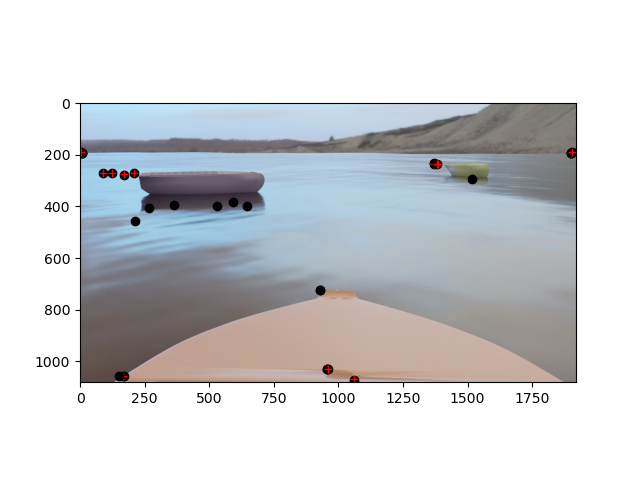
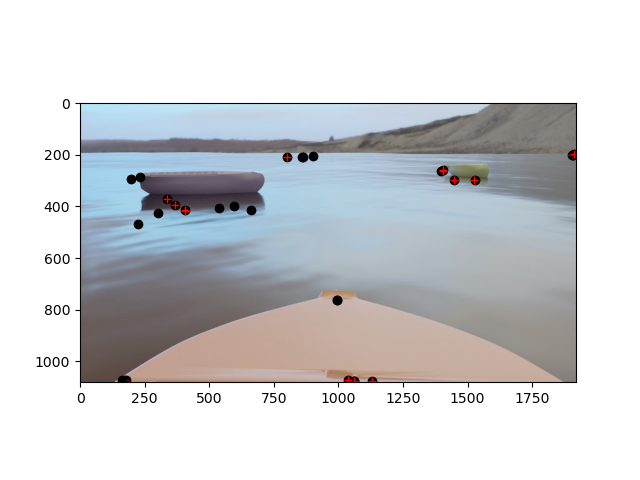
Horizont modell framework

diff --git a/TestFile/Projekt/horizont_modell.py b/TestFile/Projekt/horizont_modell.py
@@ -1,0 +1,126 @@
+from ObjectHandler import *
+import numpy as np 
+from numpy.linalg import multi_dot
+from ObjectHandler import *
+import random 
+
+#Externe Variablen
+ObjectHandler = ObjectHandler()
+N = 5
+Q_horizon = [[0.1,0],
+            [0,0.1]] ##Varianz des Modellrauschens Horizont
+R_horizont = 1 
+P_horizon = [[1,0],
+            [0,1]]
+
+H_horizon = [[1,0],
+            [0,1]]#Ausgangsmatrix Horizont
+F_horizon = [[1,0],
+            [0,1]] #Systemmatrix Horizont
+
+
+
+#k-schleife
+def horizonState_gnn (ObjectHandler,N,R_horizon,P_horizon,H_horizon,F_horizon):
+    pictures_availiable = True
+    k = 0
+    horizon_list = []
+    while pictures_available == True:
+        try:
+             ObjectHandler.updateObjectStates()
+             horizon_lines_k = ObjectHandler.getHorizon(k) #3 Horizont Kandidaten
+        except InvalidTimeStepError as e:
+               print(e.args[0])
+               k = 0 
+               pictures_availiable = False
+               break
+        if k<N:
+            horizon_list.append(horizon_lines_k)
+            #Datensatzladen
+        if k==N:
+            #MN Horizont aufrufen, um nur eine Linie von drei zu erhalten als Horizont-Kandidat
+            est_hor_k = mn_horizon(horizon_list) #Estimate horizon am Zeitschritt k
+        
+        if k>=N:
+            est_hor_k,P_horizon = kalman_filter_prediction(est_hor_k, P_horizon,F_horizon,Q_horizon) # Kalman Prädiktion
+            H_heigth = [[1,0],
+                        [0,0]] #Matrix extraiert nur die Höhe des Horizonts
+            height_horizon = getHeight(horizon_lines_k)#Liste von Höhen aus Liste von Horizonten
+            horizon_opt = min(abs(height_horizon-multi_dot([H_height,est_hor_k]))) #Horizon mit dem kleinsten Höheunterschied als optimal wählen
+            if len(horizon_lines_k) == 0:# Analysieren ob Horizon detektiert wurde
+                theta_k = 0
+            else:
+                theta_k =1
+            est_hor_k,P_horizon = kalman_filter_update(est_hor_k,P_horizon,H_horizon,horizon_opt,theta_k,R_horizon,2)#Kalmann Update
+
+            #Zustände auf gesamten Zustand zusammenführen
+        k = k+1
+
+
+def horizonState_phd (ObjectHandler,R_horizon,P_horizon,H_horizon,F_horizon):
+    pictures_availiable = True
+    k = 0
+    horizon_list = []
+    while pictures_availabel == True:
+        try:
+             ObjectHandler.updateObjectStates()
+             horizon_lines_k = ObjectHandler.getHorizon(k) #3 Horizont Kandidaten
+        except InvalidTimeStepError as e:
+               print(e.args[0])
+               k = 0 
+               pictures_availiable = False
+               break
+        if k==0:
+            random_index=random.randint(0, len(horizon_lines_k))
+            est_hor_k = horizont_lines_k[random_index] #Bei der Initialisierung, einen zufälligen Horizontkandidaten von drei auswählen
+        est_hor_k,P_horizon = kalman_filter_prediction(est_hor_k, P_horizon,F_horizon,Q_horizon) # Kalman Prädiktion
+        H_heigth = [[1,0],
+                    [0,0]] #Matrix extraiert nur die Höhe des Horizonts
+        height_horizon = getHeight(horizon_lines_k)#Liste von Höhen aus Liste von Horizonten
+        horizon_opt = min(abs(height_horizon-multi_dot([H_height,est_hor_k]))) #Horizon mit dem kleinsten Höheunterschied als optimal wählen
+        if len(horizon_lines_k) == 0:# Analysieren ob Horizon detektiert wurde
+           theta_k = 0
+        else:
+           theta_k =1
+        est_hor_k,P_horizon = kalman_filter_update(est_hor_k,P_horizon,H_horizon,horizon_opt,theta_k,R_horizon,2)#Kalmann Update
+        #Zustände auf gesamten Zustand zusammenführen
+
+        k = k+1
+ 
+
+
+
+
+  
+
+
+def kalman_filter_prediction(estimates_i, P_i,F,Q):
+   #Theorie Kalman Filter bei GNN: https://www.youtube.com/watch?v=MDMNsQJl6-Q&list=PLadnyz93xCLiCBQq1105j5Jeqi1Q6wjoJ&index=20 
+    estimates_i = np.matmul(F,estimates_i) #Kalman Prädiktion estimates
+    P_i =  multi_dot([F,P_i,np.transpose(F)]) +Q #Kalman Prädiktion 
+    return estimates_i, P_i
+
+def kalman_filter_update(estimate_i,P_i,H,z_opt_assossiation,theta_i,R,dimensions):
+     help_K_1 =np.matmul(P_i,np.transpose(H)) #Hilfsvariable für die Berechnung von K. Muss Transponiert werden, da Python mit stehenden Vektoren nicht umgehen kann
+     help_K_2 = lin.inv(np.matmul(H,help_K_1)+R) #Hilfsvariable für die Berechnung von K
+     if theta_i != 0: #Wenn Objekt detektiert wurde => Kalmanprediktion durchführen
+         
+         help_estimate = z_opt_assossiation - np.matmul(H,estimate_i)
+
+
+         if dimensions==1:
+            K = help_K_1*help_K_2
+            estimate_i = estimate_i +K*help_estimate #K Transponieren aufgrung Python und nicht der Theorie
+            help_P_1 =K*np.matmul(H,P_i)
+         else:
+             K = np.matmul(help_K_1,help_K_2)
+             estimate_i = estimate_i +np.matmul(K,help_estimate) #K Transponieren aufgrung Python und nicht der Theorie
+             help_P_1 = multi_dot([K,H,P_i])
+         P_i = P_i - help_P_1
+         
+     else:
+
+         P_i = P_i
+         estimate_i = estimate_i
+     
+     return estimate_i,P_i

diff --git a/TestFile/Projekt/ObjectHandler.py b/TestFile/Projekt/ObjectHandler.py
@@ -26,6 +26,8 @@ class ObjectHandler:
         self.Img: ndarray 
         self.image_height: int
         self.image_width: int
+        self.HorizonData: List = []
+        self.PlotOnUpdate: bool = False
 
     def setDebugLevel(self, debugLevel: int = 0) -> None:
         self.DebugLevel = debugLevel
@@ -36,6 +38,9 @@ class ObjectHandler:
             return True
         else:
             return False
+
+    def setPlotOnUpdate(self, plot: bool) -> None:
+        self.PlotOnUpdate = plot
 
     def setImageFolder(self, folder: str) -> bool:
         self.ImageFolder = folder
@@ -60,6 +65,14 @@ class ObjectHandler:
 
     def getImgWidth(self) -> int:
         return self.image_width
+
+    def getHorizonData(self, t: int) -> Tuple:
+        
+        try:
+            return self.HorizonData[t-1]
+        except IndexError:
+            raise InvalidTimeStepError('time step is out of bound!')
+
 
     # return list with object states for all time stemps
     def getObjectStatesList(self) -> List:
@@ -87,7 +100,7 @@ class ObjectHandler:
         return self.ObjectStates[-1]
 
     # update the object states for the next time step
-    def updateObjectStates(self, plot: bool = True) -> bool:
+    def updateObjectStates(self) -> bool:
 
         detector = ObstacleDetector()
         img, folder = None, '.'
@@ -118,9 +131,11 @@ class ObjectHandler:
             # check if image is valid
             assert img is not None, 'file ' + filepath + ' could not be read'
             # plot if plot setting is true
-            if plot == True: cv2.imshow('orig', img)
+            # if self.PlotOnUpdate == True: cv2.imshow('orig', img)
             # detect horizon
             horizon_lines, votes, seps = detector.detect_horizon(img)
+            # set horizon data
+            self.HorizonData.append( (horizon_lines, votes,seps) )
             # if horizon lines found
             if horizon_lines:
                 # find obstacles
@@ -128,13 +143,16 @@ class ObjectHandler:
                 # write found obstacles in list
                 ObstacleStates = []
                 for obs in obstacles:
-                    ObstacleStates .append([obs.x, obs.y])
+                    ObstacleStates .append([obs.x + obs.width // 2, obs.y + obs.height])
                 # add list to list with obstacles over all time steps
                 self.ObjectStates.append(ObstacleStates)
             else:
                 obstacles = None
             # plot image with found obstacles
-            if plot == True: detector.plot_img(img, obstacles=obstacles,horizon_lines=horizon_lines,plot_method='cv', wait_time=1)
+            #print('obstacles:')
+            #for obs in obstacles:
+            #    print('[' + str(obs.x) + ', ' + str(obs.y) + ']')
+            if self.PlotOnUpdate == True: detector.plot_img(img, obstacles=obstacles,horizon_lines=horizon_lines,plot_method='cv', wait_time=1)
 
             return True
 

diff --git a/TestFile/Projekt/gnn_algorithmus.py b/TestFile/Projekt/gnn_algorithmus.py
@@ -143,9 +143,6 @@ def gnn(p_d,M,N,dimensions,T,ObjectHandler,Q,R,P_i_init,treshhold):
                 estimate_all.append(estimate.tolist())
                 velocity_k = np.transpose(multi_dot([H_velocity,estimate])).tolist()
                 velocity_all.append(velocity_k)
-                print('.....')
-                print(velocity_k)
-                print('.....')
                 n, estimate = initMnLogic(M,N,mn_data,velocity_all,T, estimate,treshhold,n) #Anzahl Objekte
                 
                 
@@ -189,6 +186,18 @@ def kalman_filter_update(estimate_i,P_i,H,z_opt_assossiation,theta_i,R,dimension
          estimate_i = estimate_i
      
      return estimate_i,P_i
+
+def kalmann_filter_horizon(estimate_horizon_k,P_horizon_k,Q_horizon,R_horizon,horizon_k):
+     #Kalmannfilter für die Filterung des Horizonts. Basiert auf ein Constant-Position Model (F_horizon =1,H_horinzon = 1)
+     #Prädiktion
+     estimate_horizon_k = estimate_horizon_k
+     P_horizon_k = P_horizon_k + Q_horizon
+     #Update
+     K = P_horizon_k/(P_horizon_k+R_horizon)
+     estimate_horizon_k = estimate_horizon_k +K*(horizon_k-estimate_horizon_k)
+     P_horizon_k = P_horizon_k*(1-K)
+     return estimate_horizon_k, P_horizon_k
+
 
 
 

diff --git a/TestFile/Projekt/test_1.py b/TestFile/Projekt/test_1.py
@@ -1,6 +1,7 @@
 from ObjectHandler import *
 
 ObjectHandler = ObjectHandler()
+#Ordner evtl. anpassen!
 ObjectHandler.setImageFolder('Bilder/list1')
 ObjectHandler.setImageBaseName('')
 ObjectHandler.setImageFileType('.jpg')
@@ -11,13 +12,12 @@ for i in range(1,20):
     success = ObjectHandler.updateObjectStates()
     if success == True:
         print('updated states for time step ' + str(i))
+        print('___')
+        print('horizon data:')
+        print(ObjectHandler.getHorizonData(i))
+        print('___')
     else:
         print('could not update states for time step ' + str(i))
-    #img = ObjectHandler.getImg()
-    #plt.imshow(img)
-    #plt.plot(400,400,'r+')
-    #plt.show()
-    #a=1
     #print('last object states:')
     #print(ObjectHandler.getLastObjectStates())
     #cv2.waitKey(1000)
@@ -27,7 +27,7 @@ print('---------------------------------------')
 #print(ObjectHandler.getLastObjectStates())
 #print('---------------------------------------')
 
-i = 1
+
 try:
     print('get data for timestep ' + str(i) + ':')
     
@@ -35,5 +35,3 @@ try:
 except InvalidTimeStepError as e:
     print(e.args[0])
 print('---------------------------------------')
-
-

diff --git a/TestFile/Projekt/obstacle_detect.py b/TestFile/Projekt/obstacle_detect.py
@@ -187,6 +187,7 @@ class ObstacleDetector(object):
             List[float]: separation factor of lines
         """
         img = self._preprocess(img)
+        
         return self._detect_lines(img, min_visibility, N_max, canny_threshold)
 
     def _detect_lines(self, img: np.ndarray, 
@@ -206,6 +207,7 @@ class ObstacleDetector(object):
             return [], [], []
         lines = [ImageLine(self._shape, polar=l[0]) for l in lines[: N_max]]
         line_lengths, separations = self._evaluate_lines(img, edges, lines)
+        
 
         return lines, line_lengths, separations
         
